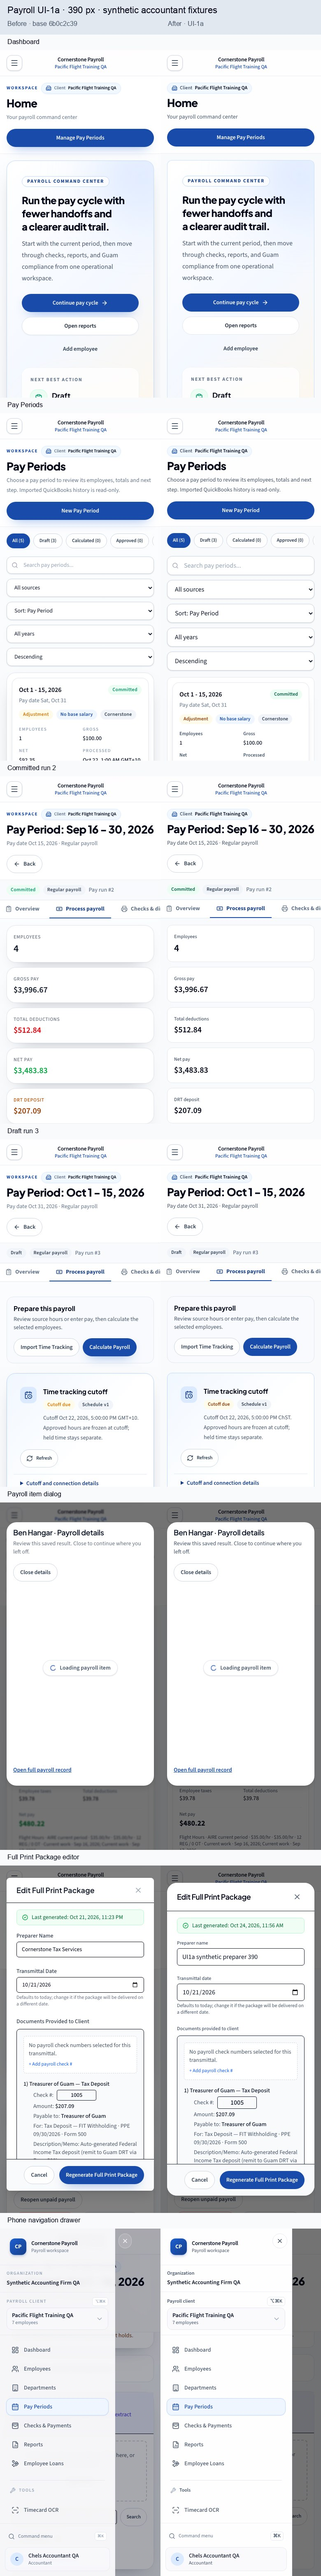
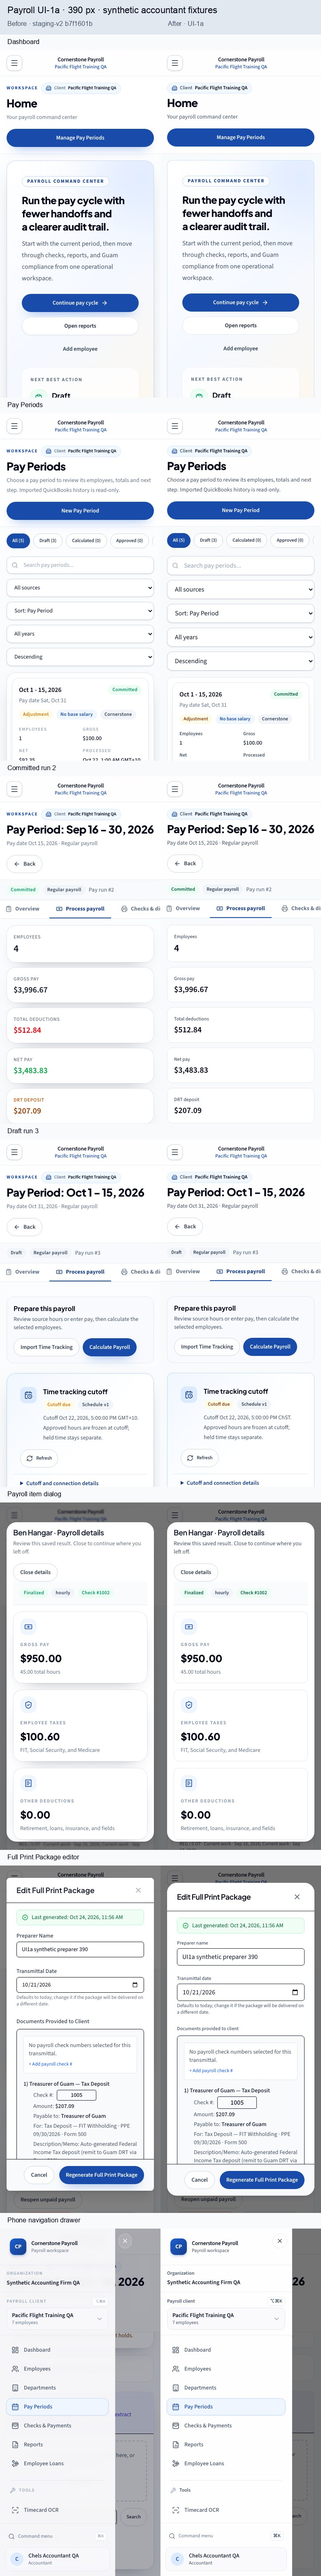
Refresh integrated UI evidence and await payroll calculation in release QA

Changed region(s): [[0.0, 0.6232, 0.4923, 0.7167], [0.5231, 0.6232, 0.9846, 0.7167], [0.6462, 0.6232, 0.6769, 0.6544]]

diff --git a/web/e2e/gate0-payroll-release.spec.ts b/web/e2e/gate0-payroll-release.spec.ts
@@ -1094,7 +1094,12 @@ test.describe('Gate 0 deterministic payroll release lane', () => {
     await page.goto(`/pay-periods/${fixture.bonus_sync_pay_period_id}`);
     await expect(page.getByRole('heading', { name: /Pay Period:/i })).toBeVisible();
 
+    const calculation = page.waitForResponse((response): boolean =>
+      response.request().method() === 'POST' &&
+      response.url().includes(`/pay_periods/${fixture.bonus_sync_pay_period_id}/run_payroll`)
+    );
     await page.getByRole('button', { name: 'Calculate Payroll' }).click();
+    expect((await calculation).ok()).toBeTruthy();
     await expect(page.getByRole('button', { name: 'Approve' })).toBeVisible();
 
     const payrollTable = page.getByRole('table').filter({

diff --git a/docs/qa/shared-ui-a11y-2026-10-24.md b/docs/qa/shared-ui-a11y-2026-10-24.md
@@ -1,6 +1,6 @@
 # Payroll UI-1a: shared primitives and accessibility
 
-Owner: `payroll-impl-ui1a`. Base: `6b0c2c390501727639b46be72bfdeb5be0b43113`; target: `staging-v2`. The lead owns integration and merge.
+Owner: `payroll-impl-ui1a`. Initial base: `6b0c2c390501727639b46be72bfdeb5be0b43113`; integrated target: `b7f1601b` (#375); target: `staging-v2`. The lead owns integration and merge.
 
 Cornerstone accountants, including Chels, need to review Guam payroll while keeping saved compensation, source hours, checks, and payment evidence distinct. This slice implements DESIGN-SPEC A/B from the October 24 review. It preserves the blue identity, fonts, shell, pill buttons, report inventory, and accounting behavior. Dashboard/cutoff wording and page reorganization remain in later slices.
 
@@ -21,9 +21,9 @@ The small-text sweep necessarily reaches files outside the pay-run page. Neutral
 
 Agent-executed QA used only task-owned headless Chromium and synthetic accountant fixtures, at 1280×800 and 390×844. APIs and web servers used assigned ports 48661–48667, with explicit isolated test database URLs. A read-only archive of the base web source supplied matched before captures. No production/staging, real email/payment/filing/provider calls, or borrowed-server requests were used.
 
-The eight-case ledger covers dashboard/list inspection and action inventory, committed/draft run fold and scroll, employee-result filtering and dialog continuity, phone navigation, the package editor, targeted axe checks, motion, and browser timezone independence. The package journey generates a synthetic PDF, reloads the page, and verifies the saved preparer option; all five fixed enclosure fields remain read-only. The drawer is checked through 50 forward/backward Tab steps, Escape, backdrop close, route selection, and focus return. Normal and reduced-motion recordings capture repeated dialog open/close.
+The nine-case ledger covers dashboard/list inspection and action inventory, committed/draft run fold and scroll, employee-result filtering and dialog continuity, phone navigation, the package editor, targeted axe checks, motion, and browser timezone independence. The package journey generates a synthetic PDF, reloads the page, and verifies the saved preparer option; all five fixed enclosure fields remain read-only. The drawer is checked through 50 forward/backward Tab steps, Escape, backdrop close, route selection, and focus return. Normal and reduced-motion recordings capture repeated dialog open/close. The integrated check-void dialog is inspected at both sizes, including required-reason validation, cancellation without a write, 16px phone input, and opener return. The phone drawer-to-command-menu transition also preserves focus after the drawer exits.
 
-Existing dismissal tests now wait for the specified exit instead of assuming immediate unmount. Assertions for cancelled writes, retained drafts, scope isolation, renderer cleanup, and focus return remain. The release lane uses the new sentence-case column labels and explicit search name; coverage was retained.
+Existing dismissal tests now wait for the specified exit instead of assuming immediate unmount. Assertions for cancelled writes, retained drafts, scope isolation, renderer cleanup, and focus return remain. The release lane uses the new sentence-case column labels and explicit search name. Its recurring-bonus journey waits for the calculation response before checking approval, so a busy local backend does not exhaust the five-second UI assertion while calculation is still running. Coverage was retained.
 
 Exact gate counts, final head, reviewer status, and cleanup are recorded in the task's `RESULT.md`. The local evidence bundle is `output/payroll-aire-review-2026-10-24/impl/payroll-ui1a/`, including:
 
